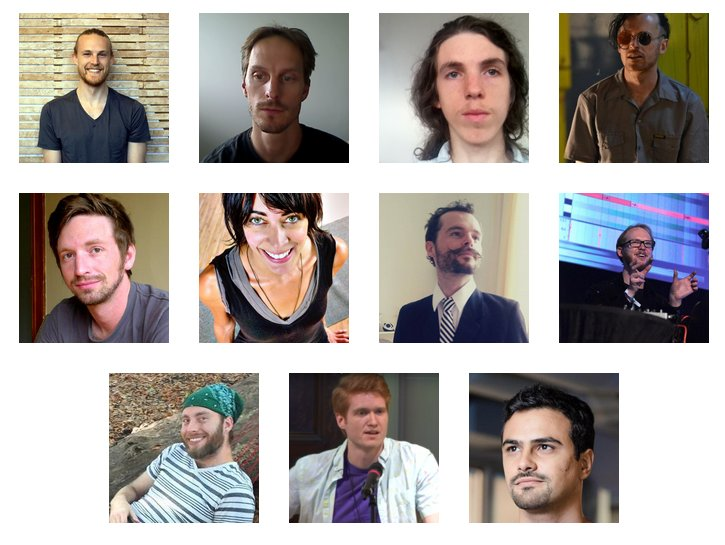
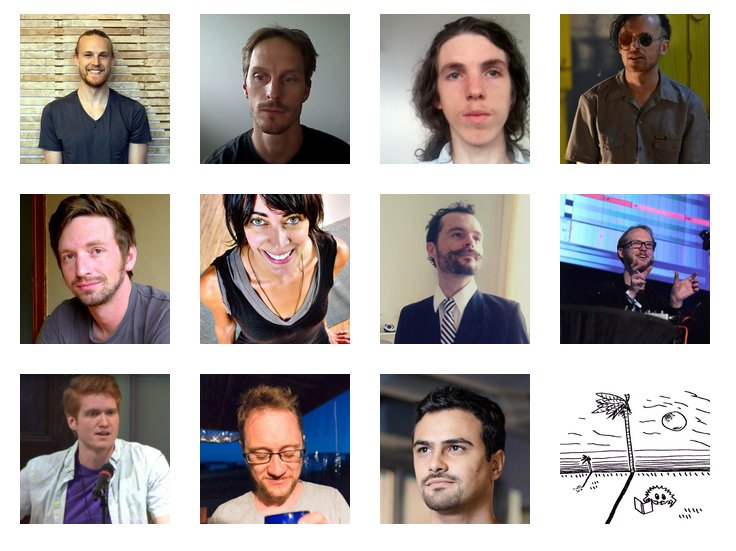
omitt noffle + pfraze

diff --git a/index.js b/index.js
@@ -2,6 +2,11 @@ const { h, Array: MutantArray, map } = require('mutant')
 const { get } = require('xhr')
 require('setimmediate')
 
+const OMITTED_USERS = [
+  'noffle',
+  'pfraze'
+]
+
 const avatars = MutantArray ([])
 
 const app = h('Avatars', [
@@ -12,10 +17,12 @@ document.body.appendChild(app)
 
 get('https://api.github.com/orgs/ssbc/members', (err, res) => {
   const data = JSON.parse(res.body)
-  const urls = data.map(user => {
-    if (!user.avatar_url) console.log(user) // some people might be using gravatars
-    return user.avatar_url
-  })
+  const urls = data
+    .filter(user => !OMITTED_USERS.includes(user.login))
+    .map(user => {
+      if (!user.avatar_url) console.log(user) // some people might be using gravatars
+      return user.avatar_url
+    })
   avatars.set(urls)
 })
 
